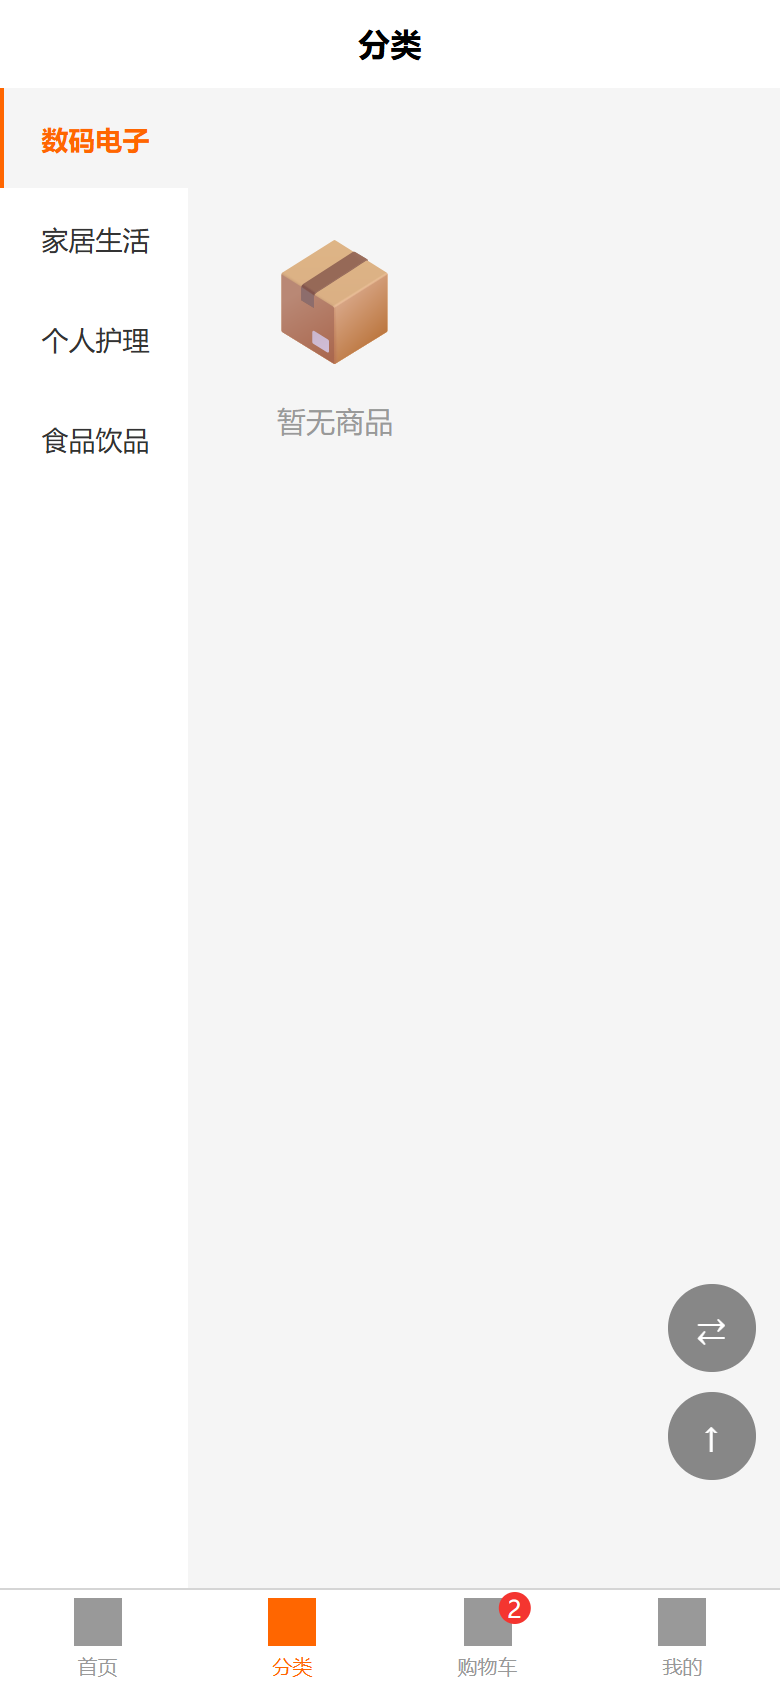
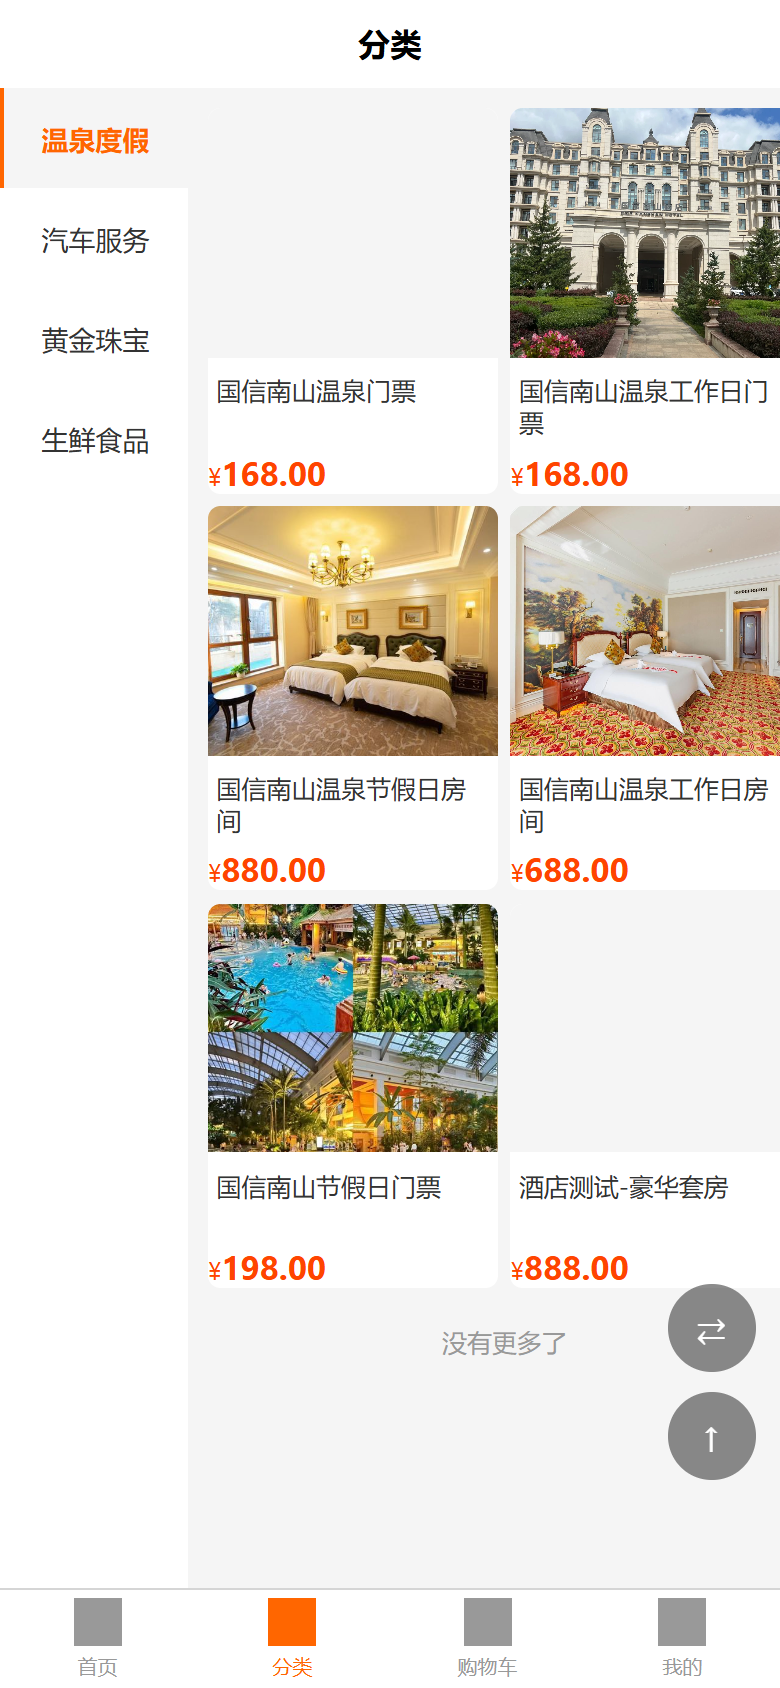
fix(category): 修复分类页商品为空——重建 default 渠道分类体系 + 修正二级分类跳转参数
数据（admin-api，非代码）：
- 新建 4 个一级分类（温泉度假/汽车服务/黄金珠宝/生鲜食品）+ 8 个二级分类，
  统一用 product-id-filter 挂现有商品；旧的 4 个空壳分类（electronics/home/
  personal-care/food）改为 isPrivate，可逆
- 启用 3 个生鲜商品（鲜活小龙虾/仙居杨梅/现杀黑猪肉），此前商品级与变体级
  均为 enabled=false，shop-api 的 enabled 过滤使其恒不可见

代码：
- category/index.vue：goList 原把 collection id 当 facetValueId 传给列表页，
  语义错配导致点二级分类必空，改传 collectionSlug
- pkg-product/pages/list.vue：原只读 facetValueId、完全忽略 collectionSlug
  （FloorSection 的查看更多也受影响），改为两者都读并透传给 search

回归：shop-api 实测 12 个分类命中 1~6 个商品；手机视口截图 category-modes /
category-sub-list / category-mode-list 三张已更新，手册升 v1.4 并新增 5.8 节

diff --git a/src/pages/category/index.vue b/src/pages/category/index.vue
@@ -14,7 +14,7 @@
         <!-- mode=1：二级分类格 -->
         <view v-if="mode === 1">
           <view v-if="subCategories.length" class="sub-grid">
-            <view v-for="sub in subCategories" :key="sub.id" class="sub-item" @click="goList(sub.id)">
+            <view v-for="sub in subCategories" :key="sub.id" class="sub-item" @click="goList(sub.slug)">
               <text class="sub-item__name">{{ sub.name }}</text>
             </view>
           </view>
@@ -118,7 +118,7 @@ function toTop() {
 }
 
 function getMinPrice(price: any): number { return price?.value ?? price?.min ?? 0; }
-function goList(facetId: string) { uni.navigateTo({ url: '/pkg-product/pages/list?facetValueId=' + facetId }); }
+function goList(slug: string) { uni.navigateTo({ url: '/pkg-product/pages/list?collectionSlug=' + slug }); }
 function goDetail(slug: string) { uni.navigateTo({ url: '/pkg-product/pages/detail?slug=' + slug }); }
 </script>
 <style lang="scss" scoped>

diff --git a/src/pkg-product/pages/list.vue b/src/pkg-product/pages/list.vue
@@ -48,8 +48,10 @@ async function loadData() {
     try {
         const pages = getCurrentPages(); const page = pages[pages.length - 1] as any;
         const facetValueId = page?.options?.facetValueId;
+        const collectionSlug = page?.options?.collectionSlug;
         const res: any = await searchProducts({
             term: searchTerm.value || undefined,
+            collectionSlug: collectionSlug || undefined,
             facetValueFilters: facetValueId ? [{ or: [facetValueId] }] : undefined,
             take,
             skip,
